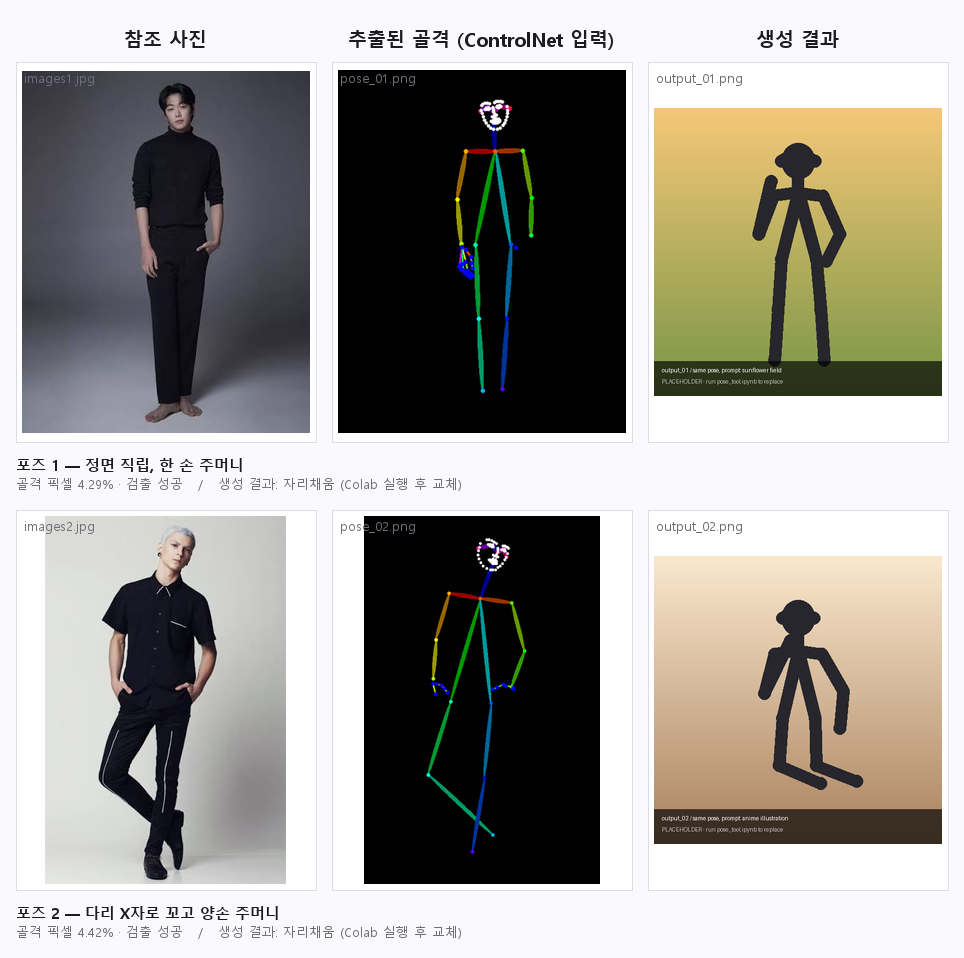
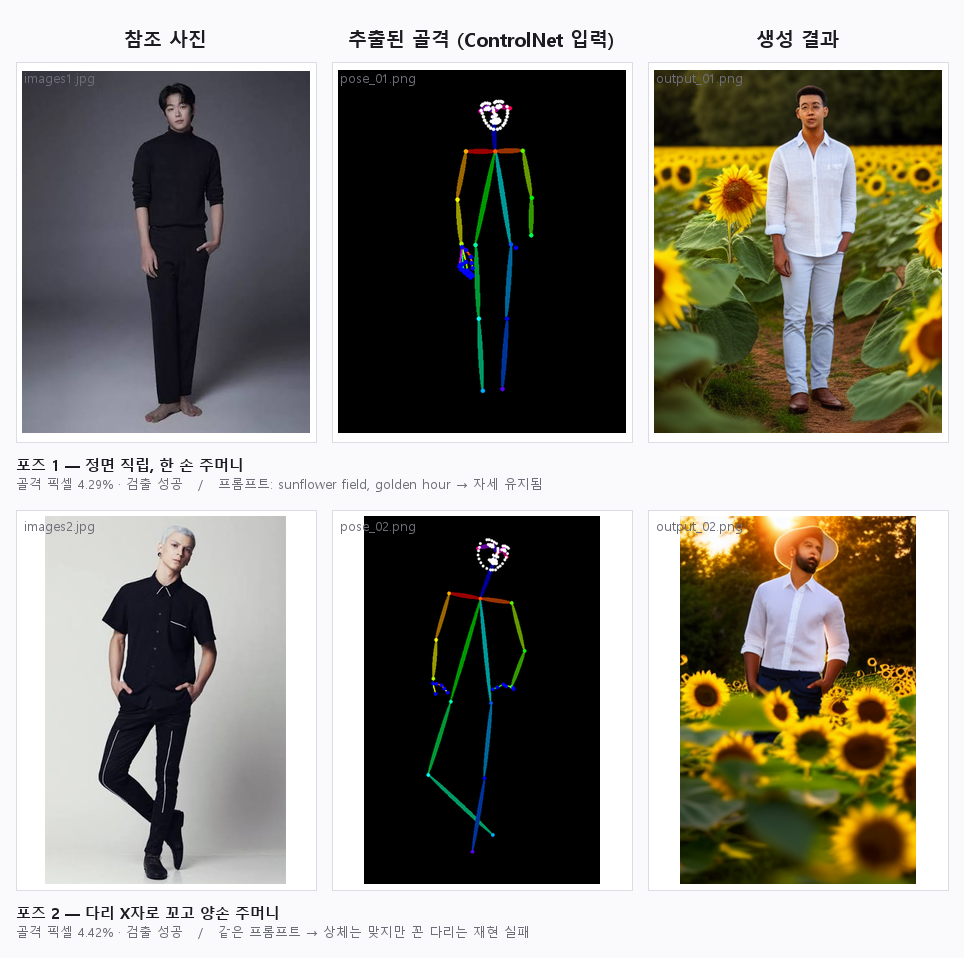
자리채움 이미지를 실제 생성 결과로 교체하고 관찰 기록 작성
노트북을 로컬 RTX 3070(8GB)에서 끝까지 실행해 얻은 결과로 채웠습니다.
모델 캐시 상태에서 120초 걸렸습니다.

- samples/output_01.png, output_02.png: 코드로 그린 자리채움 더미를 실제
  생성 이미지로 교체했습니다.
- samples/preview.png: 대조표를 다시 만들고 캡션을 관찰 내용으로 바꿨습니다.
- pose_tool.ipynb 9단계: 대괄호 빈칸을 실제 관찰로 채웠습니다. 실험 1은 네
  프롬프트 모두 자세를 유지했고, 실험 2는 pose_scale 1.0이 가장 균형 있었고,
  실험 3은 포즈 2의 꼰 다리가 재현되지 않았습니다. 잘 따라오지 않는 부분의
  공통점이 골격 정보가 가려지거나 겹치는 곳이라는 점까지 적었습니다.
- README: 테스트 결과에 포즈 1은 잘 됨, 포즈 2는 일부 어긋남으로 판정을
  적고, 갤러리의 자리채움 경고를 지웠습니다.

Colab T4에서의 확인은 아직 남아 있어 체크리스트에 남겨 두었습니다.

diff --git a/README.md b/README.md
@@ -13,8 +13,8 @@
 4. 직접 만든 프롬프트로 더 시도해 보려면 6-4단계 셀의 `MY_PROMPTS`를 고쳐 실행하세요. 쓸 만한 조합은 [`prompts.md`](prompts.md)의 "다음에 시도할 프롬프트 (작성 칸)"에 적어 두면 됩니다.
 
 ## 테스트 결과
-- 포즈 1: 정면 직립, 양팔을 몸 옆에 내리고 한 손만 바지 주머니에 넣은 자세 (`samples/images1.jpg` → `samples/pose_01.png`) → 프롬프트: `a young man in a white linen shirt standing in a sunflower field, golden hour` → 결과: 골격 추출 잘 됨 (몸통·얼굴·양손 키포인트 모두 검출, 골격 픽셀 4.29%) / 생성 결과는 Colab 실행 후 기입
-- 포즈 2: 다리를 X자로 꼬고 서서 양손을 주머니에 넣은 자세 (`samples/images2.jpg` → `samples/pose_02.png`) → 프롬프트: 포즈 1과 **동일** (프롬프트를 고정해 포즈만 바꾼 비교) → 결과: 골격 추출 잘 됨 (꼰 다리의 교차 지점까지 정확히 따라감, 골격 픽셀 4.42%) / 생성 결과는 Colab 실행 후 기입
+- 포즈 1: 정면 직립, 양팔을 몸 옆에 내리고 한 손만 바지 주머니에 넣은 자세 (`samples/images1.jpg` → `samples/pose_01.png`) → 프롬프트: `a young man in a white linen shirt standing in a sunflower field, golden hour` → 결과: **잘 됨.** 골격 추출은 몸통·얼굴·양손 키포인트가 모두 잡혔고(픽셀 4.29%), 생성 결과도 직립 자세와 주머니에 넣은 손 위치까지 참조와 일치했습니다.
+- 포즈 2: 다리를 X자로 꼬고 서서 양손을 주머니에 넣은 자세 (`samples/images2.jpg` → `samples/pose_02.png`) → 프롬프트: 포즈 1과 **동일** (프롬프트를 고정해 포즈만 바꾼 비교) → 결과: **일부 어긋남.** 골격은 꼰 다리의 교차 지점까지 정확히 잡혔지만(픽셀 4.42%), 생성 결과에서는 하체가 해바라기에 가려지고 상체만 정면 직립으로 나왔습니다. 양손을 주머니에 넣은 상체 자세는 맞았습니다.
 - 노트북에는 조건을 하나씩만 바꾸는 실험 세 개가 들어 있습니다. 실험 1은 같은 포즈에 프롬프트 4종(sunflower field / knight / astronaut / anime), 실험 2는 같은 프롬프트에 `pose_scale` 0.5·1.0·1.5, 실험 3은 같은 프롬프트에 포즈 사진만 교체입니다. 관찰 내용은 노트북 마지막 마크다운 셀(9단계)에 기록합니다.
 
 ### 결과 미리보기
@@ -26,12 +26,12 @@
 | 참조 사진 | 추출된 골격 (ControlNet 입력) | 생성 결과 |
 |:---:|:---:|:---:|
 | <img src="samples/images1.jpg" width="210"> | <img src="samples/pose_01.png" width="210"> | <img src="samples/output_01.png" width="210"> |
-| **포즈 1** · 정면 직립, 한 손 주머니 | 골격 픽셀 4.29% · 검출 성공 | ⚠ 자리채움 — Colab 실행 후 교체 |
+| **포즈 1** · 정면 직립, 한 손 주머니 | 골격 픽셀 4.29% · 검출 성공 | 자세 유지됨 |
 | <img src="samples/images2.jpg" width="210"> | <img src="samples/pose_02.png" width="210"> | <img src="samples/output_02.png" width="210"> |
-| **포즈 2** · 다리 X자로 꼬고 양손 주머니 | 골격 픽셀 4.42% · 검출 성공 | ⚠ 자리채움 — Colab 실행 후 교체 |
+| **포즈 2** · 다리 X자로 꼬고 양손 주머니 | 골격 픽셀 4.42% · 검출 성공 | 꼰 다리 재현 실패 |
 
-오른쪽 열의 두 장은 아직 생성 이미지가 아닙니다. 노트북 4~7단계를 실행하면
-같은 파일명으로 실제 결과가 저장됩니다.
+표의 이미지는 모두 실제 실행 결과입니다. RTX 3070(8GB)에서 노트북을 끝까지
+돌려 얻었습니다.
 
 ## 한계
 - 손가락이 자주 깨집니다. 손 키포인트는 한 손에 21개뿐이라 정보가 부족해서이고, `steps`를 25 → 35로 올리면 나아집니다.
@@ -107,6 +107,7 @@ pose-image-tool/
 
 ### 남은 일
 
-- [ ] Colab에서 4~7단계를 실행해 `output_01.png` / `output_02.png`를 실제 생성 결과로 교체 (현재는 자리채움 이미지)
-- [ ] 노트북 9단계 관찰 기록의 빈칸 채우기
-- [ ] 위 테스트 결과의 "생성 결과는 Colab 실행 후 기입" 두 항목 채우기
+- [x] 4~7단계를 실행해 `output_01.png` / `output_02.png`를 실제 생성 결과로 교체 (로컬 RTX 3070, 120초)
+- [x] 노트북 9단계 관찰 기록 채우기
+- [x] 위 테스트 결과 채우기
+- [ ] Colab T4에서도 한 번 돌려 동일하게 동작하는지 확인
